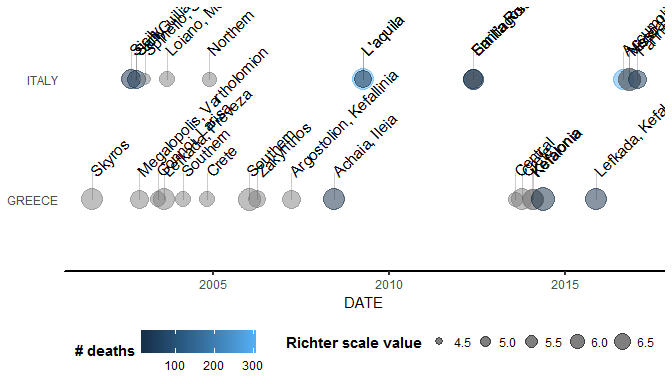
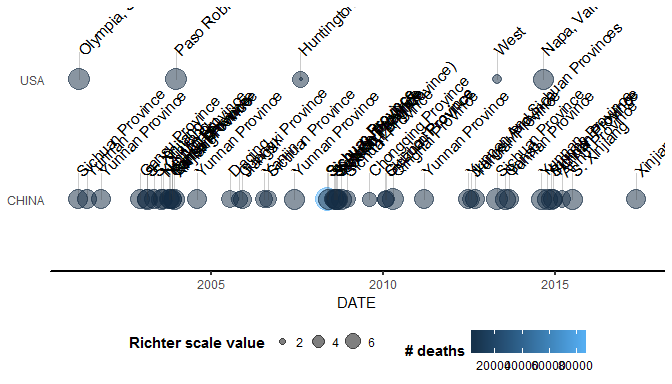
Update example in readme and vignette

diff --git a/README.md b/README.md
@@ -35,14 +35,14 @@ eq_clean_data(data)
 Visualize earthquake timeline
 -----------------------------
 
-The next three functions utilize `ggplot2` package to visualize earthquake timeline. The basic `geom_timeline()` geom requires clean data from the previous paragraph. The required aesthetics is `x` with dates, optional are `y` for grouping by country, and `size` and `color` that can be use according to user needs. The `geom_timeline_label()` function requires additional `label` aesthetic for labeling. For better visualization of these two geoms, `theme_timeline()` theme was added. Here is an example:
+The next three functions use `ggplot2` package to visualize earthquake timeline. The basic `geom_timeline()` geom requires clean data from the previous paragraph. The required aesthetics is `x` with dates, optional are `y` for grouping by country, and `size` and `color` that can be use according to user needs. The `geom_timeline_label()` function requires additional `label` aesthetic for labeling. For better visualization of these two geoms, `theme_timeline()` theme was added. Here is an example:
 
 ``` r
 data %>% eq_clean_data() %>%
-     filter(COUNTRY %in% c("GREECE", "ITALY"), YEAR > 2000) %>%
+     filter(COUNTRY %in% c("USA", "CHINA"), YEAR > 2000, DEATHS>0) %>%
      ggplot(aes(x = DATE,
                 y = COUNTRY,
-                color = as.numeric(TOTAL_DEATHS),
+                color = DEATHS,
                 size = as.numeric(EQ_PRIMARY)
      )) +
      geom_timeline() +
@@ -60,4 +60,4 @@ data %>% eq_clean_data() %>%
 Visualize earthquakes on map
 ----------------------------
 
-The package utilized `leaflet` functions to visualize earthquakes on a map using `eq_map()` function. The map is automatically trimmed to display the input data frame. Optional annotations can be created using `eq_create_label()` function. The result is an interactive map where user can click on individual points to get details:
+The package uses `leaflet` functions to visualize earthquakes on a map using `eq_map()` function. The map is automatically trimmed to display the input data frame. Optional annotations can be created using `eq_create_label()` function. The result is an interactive map where user can click on individual points to get details.
